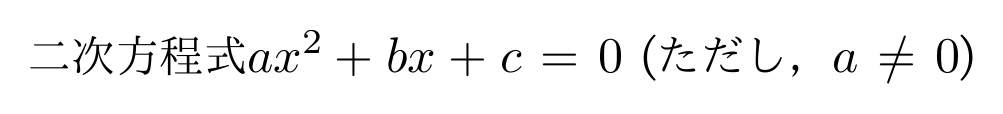
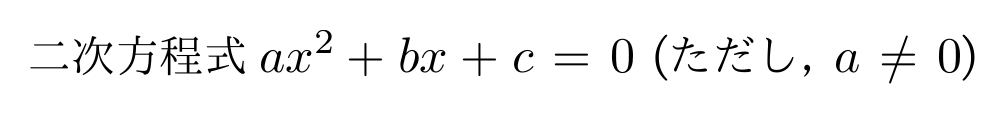
use modified standalone.satyh

Changed region(s): [[0.0618, 0.2632, 0.8654, 0.7105], [0.1545, 0.6316, 0.1854, 0.6579]]

diff --git a/md/math-basics.md b/md/math-basics.md
@@ -5,14 +5,8 @@
 `${ ... }` で囲われた部分は数式として扱われます。
 
 ```satysfi
-@require: standalone
-@require: math
+@require: standalone-nekketsuuu
 
-let-block ctx +p it =
-  let ib = read-inline ctx it in
-  let ib = inline-fil ++ ib ++ inline-fil in
-  line-break false false ctx ib
-in
 standalone '<
 %% BEGIN
 +p {
@@ -27,8 +21,7 @@ standalone '<
 数式からなるブロック要素を作るには、多くの場合 `+math` を使います。末尾にセミコロンが必要です。
 
 ```satysfi
-@require: standalone
-@require: math
+@require: standalone-nekketsuuu
 
 standalone '<
 %% BEGIN
